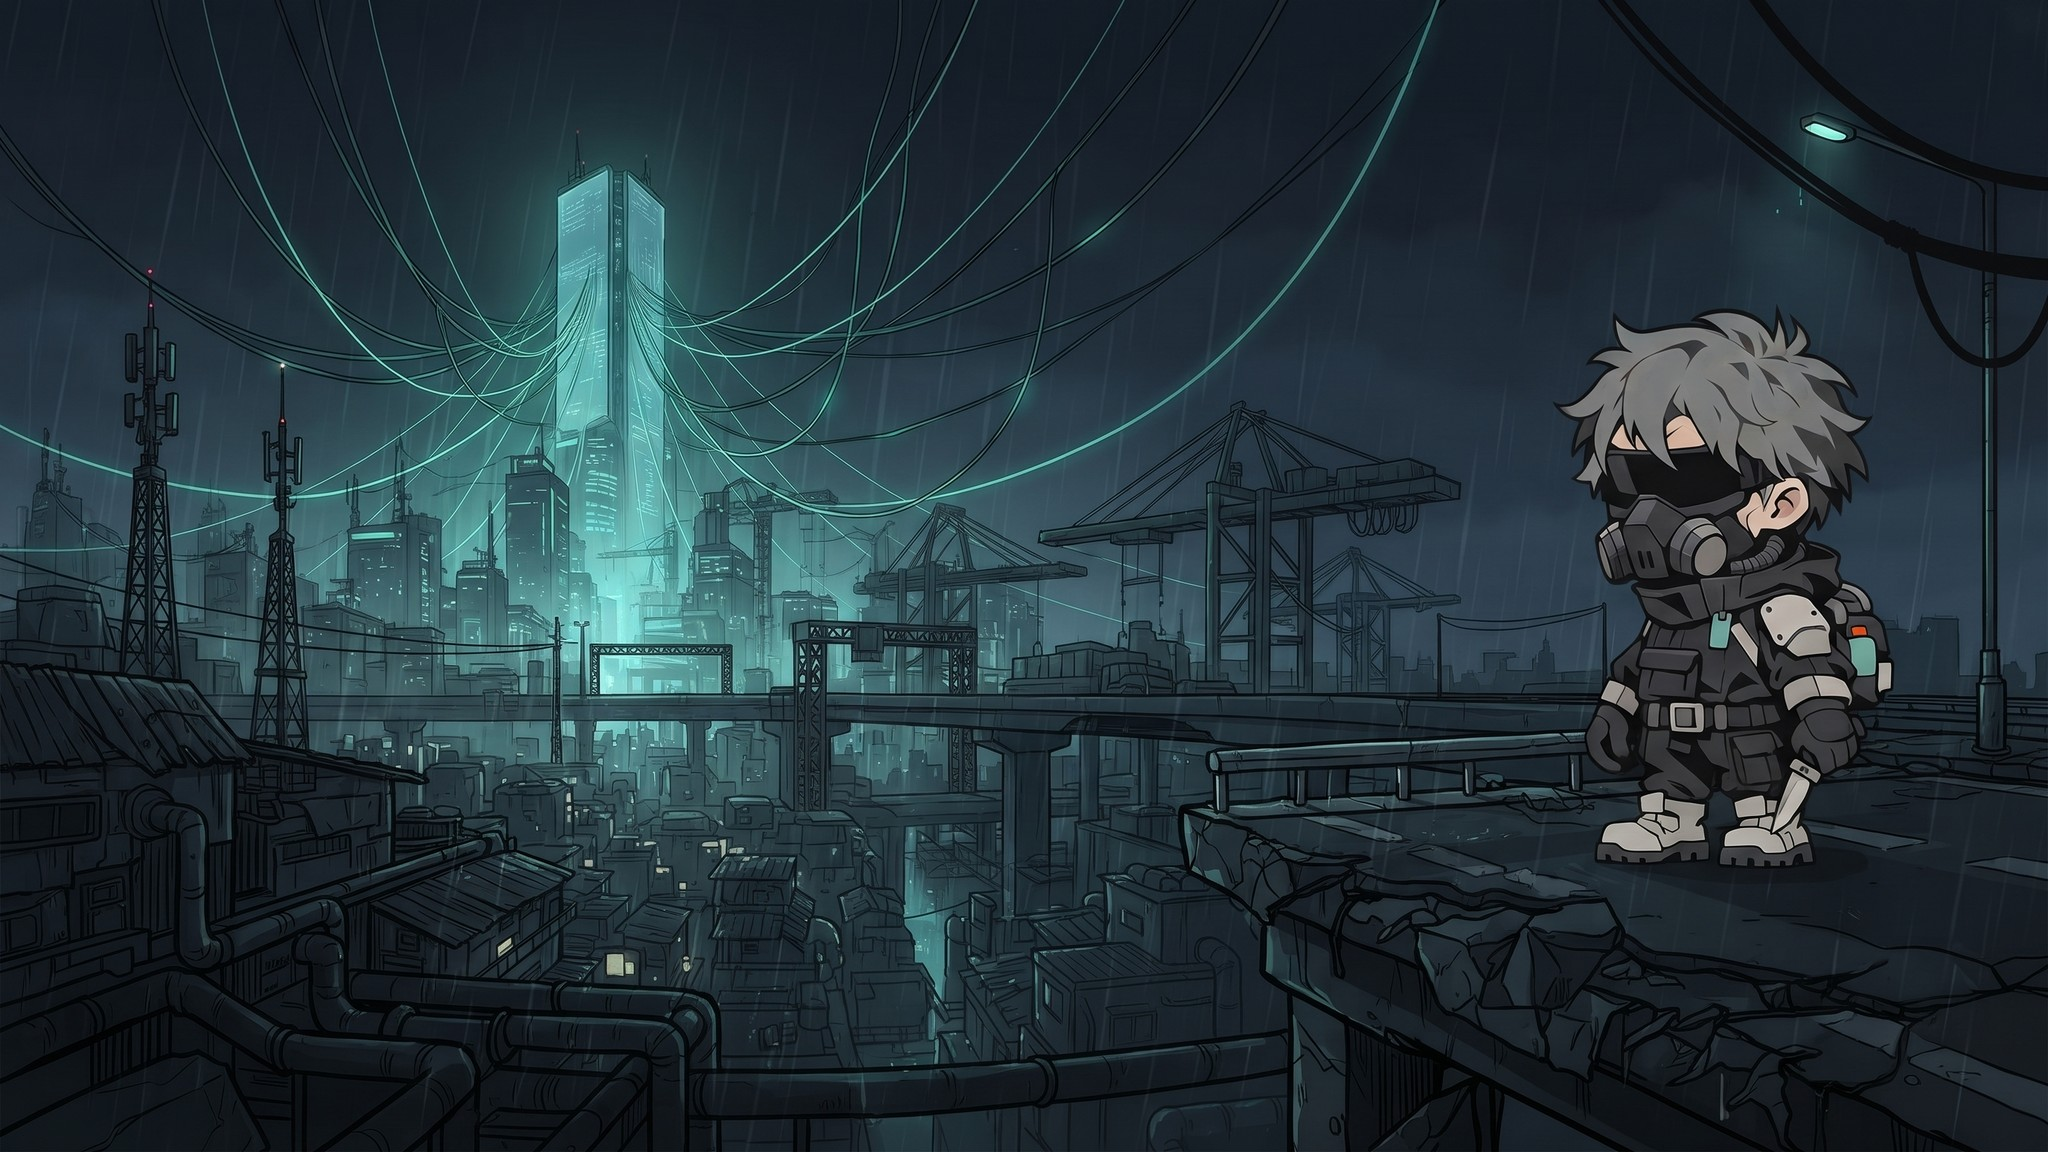
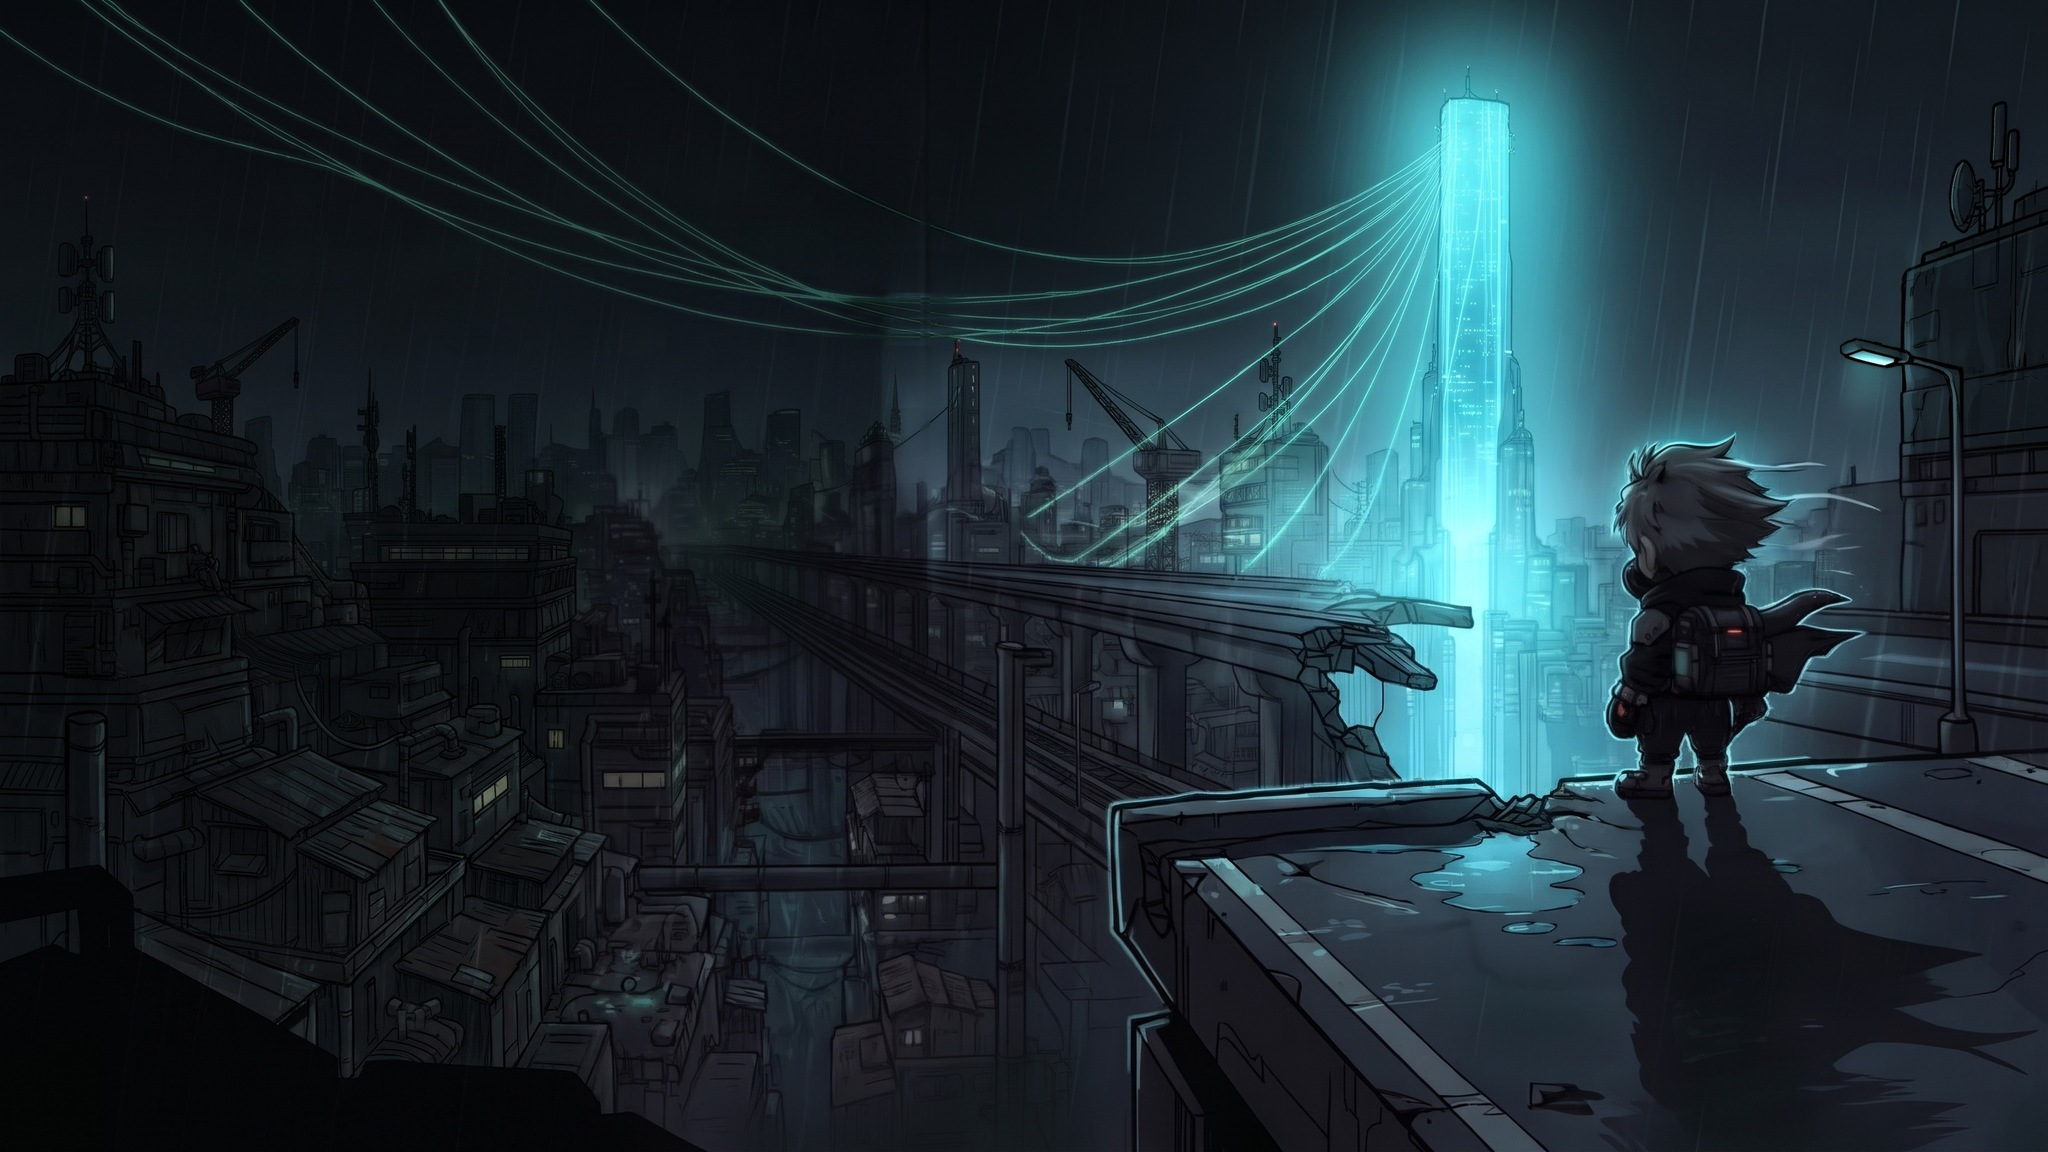
标题画面：新背景（主角在天台望向高塔）+ 轻量动效
- 背景重出：高塔挪到偏右，线缆从左上汇向高塔，左边压暗给标题让位
- 主角站在天台边缘，中景断轨是另一座独立高架（原来硬接的桥透视不对）
- 动效：背景漂移、90 根雨线、高塔慢呼吸、四根线缆上的小光点、路灯偶尔暗

Claude-Session: https://claude.ai/code/session_01HRF1AA6vfEi7988WvnNZop

diff --git a/ThreadZero/Assets/Scripts/GameAppTitle.cs b/ThreadZero/Assets/Scripts/GameAppTitle.cs
@@ -50,10 +50,11 @@ namespace ThreadZero
             if (!titleArtTried) { titleArtTried = true; titleArt = Resources.Load<Texture2D>("Art/V16/Title/title"); }
             float t = clock - titleAt, fade = Mathf.Clamp01(t / .9f), now = Time.unscaledTime;
             Ui.FillScreen(Ui.Hex(0x101317));
+            float dx = Mathf.Sin(now * .11f) * 14, dy = Mathf.Sin(now * .083f + 1.3f) * 8;   // v0.22 背景慢慢漂（放大 4%，来回各十几像素），不再是一张死图
             if (titleArt != null)
-            {   // v0.22 背景慢慢漂（放大 4%，来回各十几像素），不再是一张死图
-                float dx = Mathf.Sin(now * .11f) * 14, dy = Mathf.Sin(now * .083f + 1.3f) * 8;
+            {
                 GUI.DrawTexture(Ui.R(-32 + dx, -18 + dy, 1664, 936), titleArt, ScaleMode.ScaleAndCrop);
+                TitleFx(now, dx, dy);
             }
             else TitleThreads(t);
             TitleRain(now);
@@ -144,14 +145,70 @@ namespace ThreadZero
             if (hit && Ui.Clicked != null) Ui.Clicked();
             y += h + (main ? 14 : 2); row++; return hit;
         }
-        /// 雨：70 根斜着往下掉的细线，位置和速度按序号定死（不用随机数，免得每帧跳）。
+        // ---------- v0.22 标题背景上的动态（都是程序画的，位置按 1600×900 的图量出来，跟着背景一起漂）----------
+        private static Texture2D titleGlow;
+        private static Texture2D TitleGlowTex()
+        {
+            if (titleGlow != null) return titleGlow;
+            const int n = 64; titleGlow = new Texture2D(n, n, TextureFormat.RGBA32, false) { wrapMode = TextureWrapMode.Clamp, hideFlags = HideFlags.HideAndDontSave };
+            for (int y = 0; y < n; y++) for (int x = 0; x < n; x++)
+            {
+                float d = Mathf.Sqrt((x - 31.5f) * (x - 31.5f) + (y - 31.5f) * (y - 31.5f)) / 31.5f, v = Mathf.Clamp01(1 - d);
+                titleGlow.SetPixel(x, y, new Color(1, 1, 1, v * v));
+            }
+            titleGlow.Apply(); return titleGlow;
+        }
+        private static void Glow(float cx, float cy, float w, float h, Color c)
+        {
+            if (c.a <= .003f) return;
+            Color old = GUI.color; GUI.color = c; GUI.DrawTexture(Ui.R(cx - w / 2, cy - h / 2, w, h), TitleGlowTex(), ScaleMode.StretchToFill, true); GUI.color = old;
+        }
+        // 天上的线缆（从左到右，终点都在高塔上），照着图描的折线
+        private static readonly float[][] TitleCables = {
+            new[] { 460f, 0f, 520f, 45f, 600f, 98f, 700f, 160f, 800f, 193f, 900f, 202f, 1000f, 182f, 1060f, 150f, 1118f, 114f },
+            new[] { 340f, 0f, 400f, 60f, 500f, 140f, 600f, 200f, 700f, 235f, 800f, 240f, 900f, 228f, 1000f, 195f, 1118f, 124f },
+            new[] { 80f, 0f, 150f, 50f, 250f, 110f, 350f, 170f, 450f, 205f, 550f, 228f, 650f, 240f, 750f, 250f, 900f, 245f, 1000f, 215f, 1118f, 134f },
+            new[] { 0f, 25f, 100f, 85f, 200f, 125f, 300f, 150f, 400f, 185f, 500f, 215f, 600f, 235f, 700f, 255f, 800f, 262f, 900f, 258f, 1000f, 235f, 1118f, 148f },
+            new[] { 800f, 400f, 900f, 345f, 1000f, 270f, 1118f, 162f },
+            new[] { 850f, 420f, 950f, 360f, 1050f, 270f, 1120f, 188f } };
+        private static Vector2 Along(float[] line, float u)
+        {
+            int n = line.Length / 2 - 1; float f = Mathf.Clamp01(u) * n; int i = Mathf.Min(n - 1, (int)f); float k = f - i;
+            return new Vector2(Mathf.Lerp(line[i * 2], line[i * 2 + 2], k), Mathf.Lerp(line[i * 2 + 1], line[i * 2 + 3], k));
+        }
+        private void TitleFx(float now, float dx, float dy)
+        {   // 11-24 03:15 用户：第一版（漂移 + 雨）的基础上加强一点就行，不要夸张。所以下面都压得很轻。
+            System.Func<float, float, Vector2> at = (x, y) => new Vector2(-32 + dx + x * 1.04f, -18 + dy + y * 1.04f);
+            Color teal = new Color(.45f, 1f, .95f);
+            // 1）高塔慢慢呼吸（约 5 秒一个来回），主角的轮廓光跟着一起
+            float breath = .5f + .5f * Mathf.Sin(now * 1.25f);
+            Vector2 tower = at(1150, 300);
+            Glow(tower.x, tower.y, 560, 900, new Color(teal.r, teal.g, teal.b, .03f + .07f * breath));
+            Glow(tower.x, tower.y - 20, 110, 700, new Color(.8f, 1, 1, .04f + .1f * breath));
+            Vector2 hero = at(1345, 480); Glow(hero.x - 30, hero.y, 220, 360, new Color(teal.r, teal.g, teal.b, .015f + .035f * breath));
+            // 2）四根主线缆上各有一个小光点，慢慢流向高塔
+            for (int c = 0; c < 4; c++)
+            {
+                float u = Mathf.Repeat(now * .09f + c * .27f, 1), a = Mathf.Clamp01(u * 5) * Mathf.Clamp01((1 - u) * 8);
+                for (int tail = 2; tail >= 0; tail--)
+                {
+                    Vector2 q = Along(TitleCables[c], u - tail * .01f), s2 = at(q.x, q.y); float ta = a * (1 - tail / 3f);
+                    Glow(s2.x, s2.y, tail == 0 ? 22 : 12, tail == 0 ? 22 : 12, new Color(.8f, 1, .97f, .45f * ta));
+                }
+            }
+            // 3）路灯偶尔暗一下
+            float flick = Mathf.PerlinNoise(now * 3f, 3.1f) > .8f ? .55f : 1;
+            Vector2 lamp = at(1473, 287);
+            Glow(lamp.x, lamp.y, 220, 150, new Color(.72f, .96f, 1f, .16f * flick));
+        }
+        /// 雨：90 根细线，位置和速度按序号定死（不用随机数，免得每帧跳）。
         private void TitleRain(float now)
         {
-            for (int i = 0; i < 70; i++)
+            for (int i = 0; i < 90; i++)
             {
                 float h1 = Mathf.Repeat(i * .6180339f, 1), h2 = Mathf.Repeat(i * .3819660f + .17f, 1);
-                float speed = 760 + 520 * h2, len = 22 + 36 * h2, yy = Mathf.Repeat(now * speed + h1 * 3100, 1000) - 60, xx = 60 + h1 * 1700 - yy * .16f;
-                Ui.Stroke(xx, yy, xx - len * .16f, yy + len, 1.4f, new Color(.72f, .88f, 1, .07f + .11f * h2));
+                float speed = 780 + 540 * h2, len = 22 + 38 * h2, yy = Mathf.Repeat(now * speed + h1 * 3100, 1000) - 60, xx = 60 + h1 * 1700 - yy * .16f;
+                Ui.Stroke(xx, yy, xx - len * .16f, yy + len, 1.4f, new Color(.72f, .88f, 1, .08f + .12f * h2));
             }
         }
         /// 没有标题图时的背景：几根慢慢摆动的青绿织线。

diff --git a/Gemini/卡30_标题画面重做/提示词.md b/Gemini/卡30_标题画面重做/提示词.md
@@ -1,0 +1,17 @@
+# 卡30 · 标题画面右侧重做（两个方向的例图）
+
+2026-11-24 02:45。用户：右边的角色太割裂，背景配合右边重新设计；先出例图，确认再实装。
+
+## A · 背影融入（上传 `卡26_机械飞升阶段部件/参考_主角画风.png`）
+主角变小、四分之三背影，站在断桥边望着远处的高塔，身上压暗只留青色轮廓光。原图 `出图/A_背影融入_原图.jpeg`。
+
+## B · 无人背景 + 游戏内角色
+右侧是路灯照亮的桥面，光斑中间留空；角色用游戏里的骨骼角色（当前配装）画在光斑上。原图 `出图/B_无人背景_原图.jpeg`。
+试验代码存在 `Gemini/_tmp/bak/GameAppTitle_B试验.cs`（没提交）。
+
+提示词全文见 Gemini 对话「赛博朋克游戏标题画面设定」「赛博朋克游戏标题背景生成」。
+
+## 定稿（11-24 03:20）
+- 用户选 A3（俯瞰城市、塔在偏右）。原图中间有一道竖直明暗分界线，后期压平（`出图/A3_去接缝.png`）。
+- 主角脚下的桥和中景高架透视对不上，试过两次「同一座桥断开」都不对；改成主角站在天台边缘、中景高架是另一座独立的断轨（Gemini 局部重画，再按差异遮罩合成回 A3，`出图/A7_合成.png`）。
+- 进游戏的是 A7 合成缩到 2048×1152 的 `title.jpg`。动效在 `GameAppTitle.TitleFx`：塔呼吸、四根线缆上的光点、路灯偶尔暗，都压得很轻。
